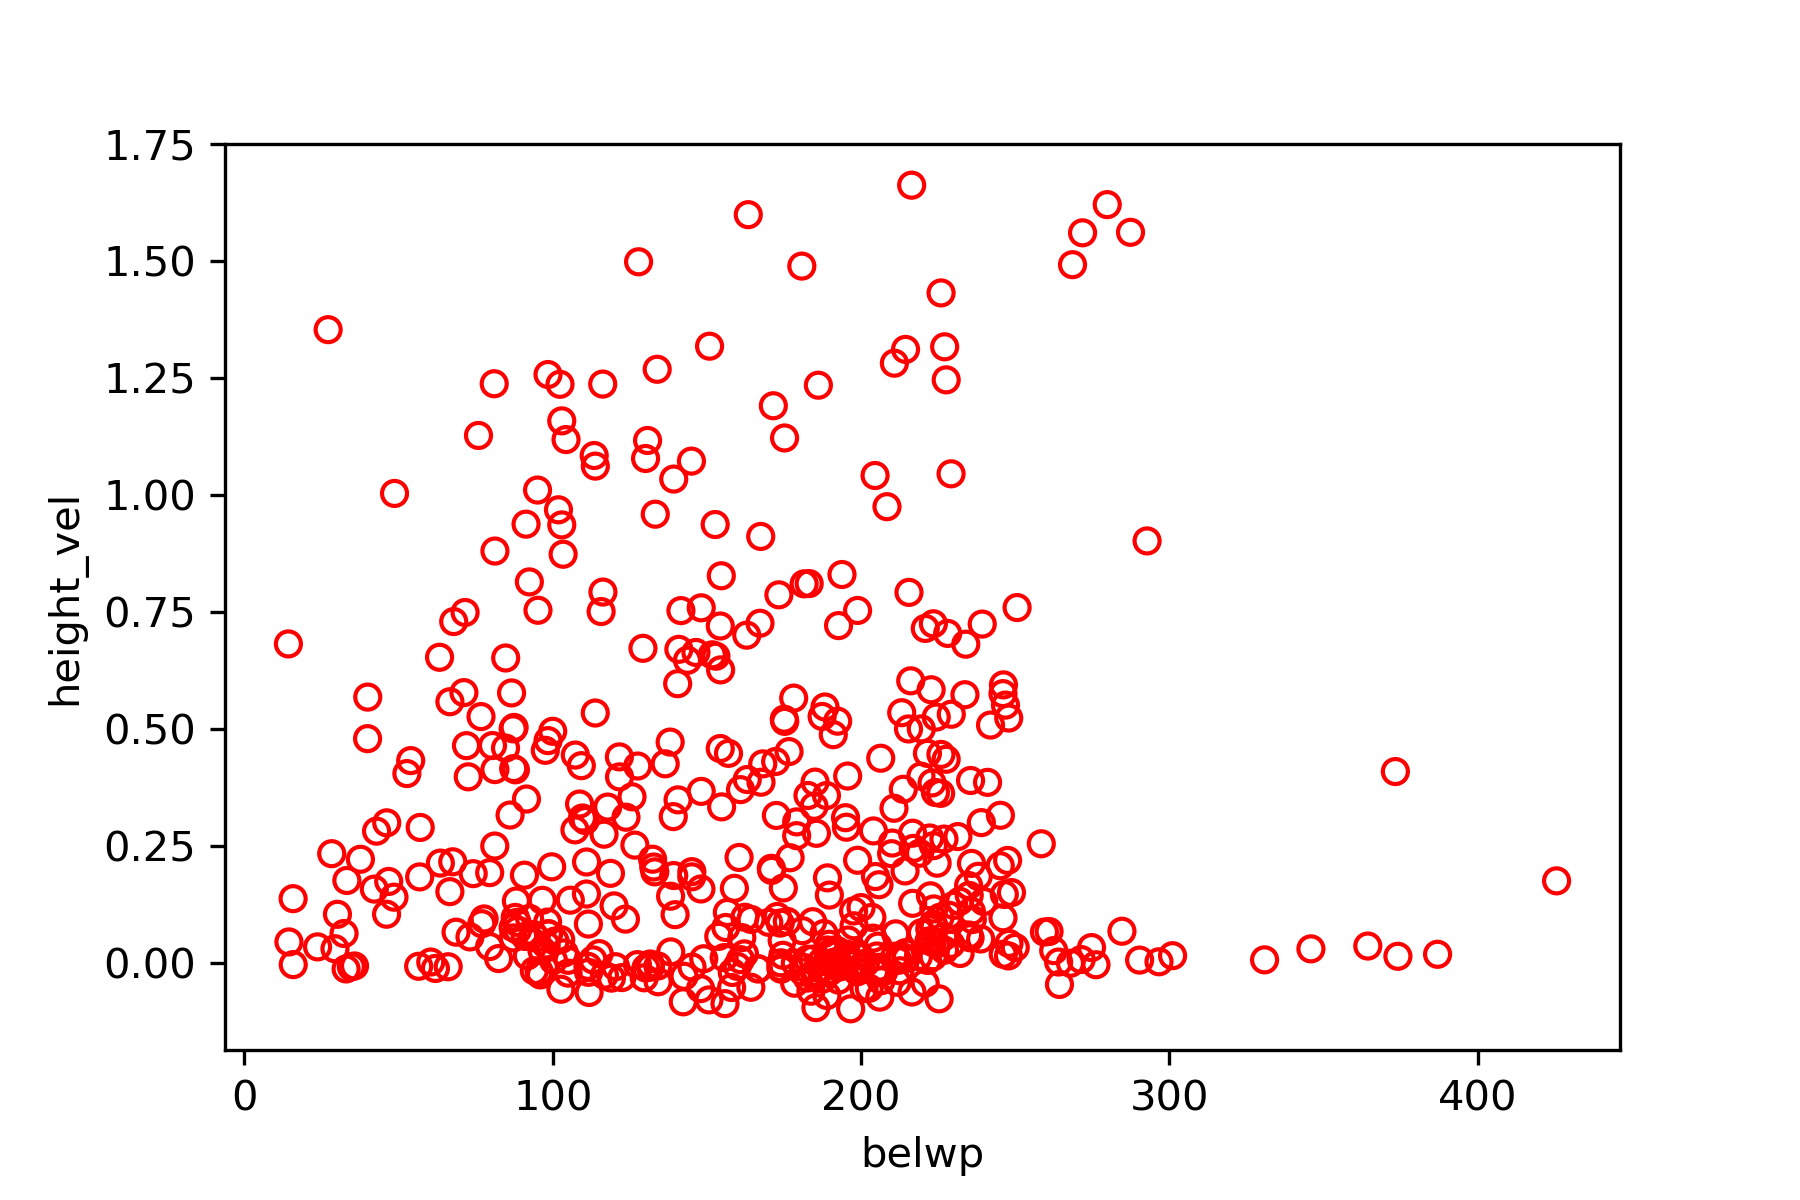
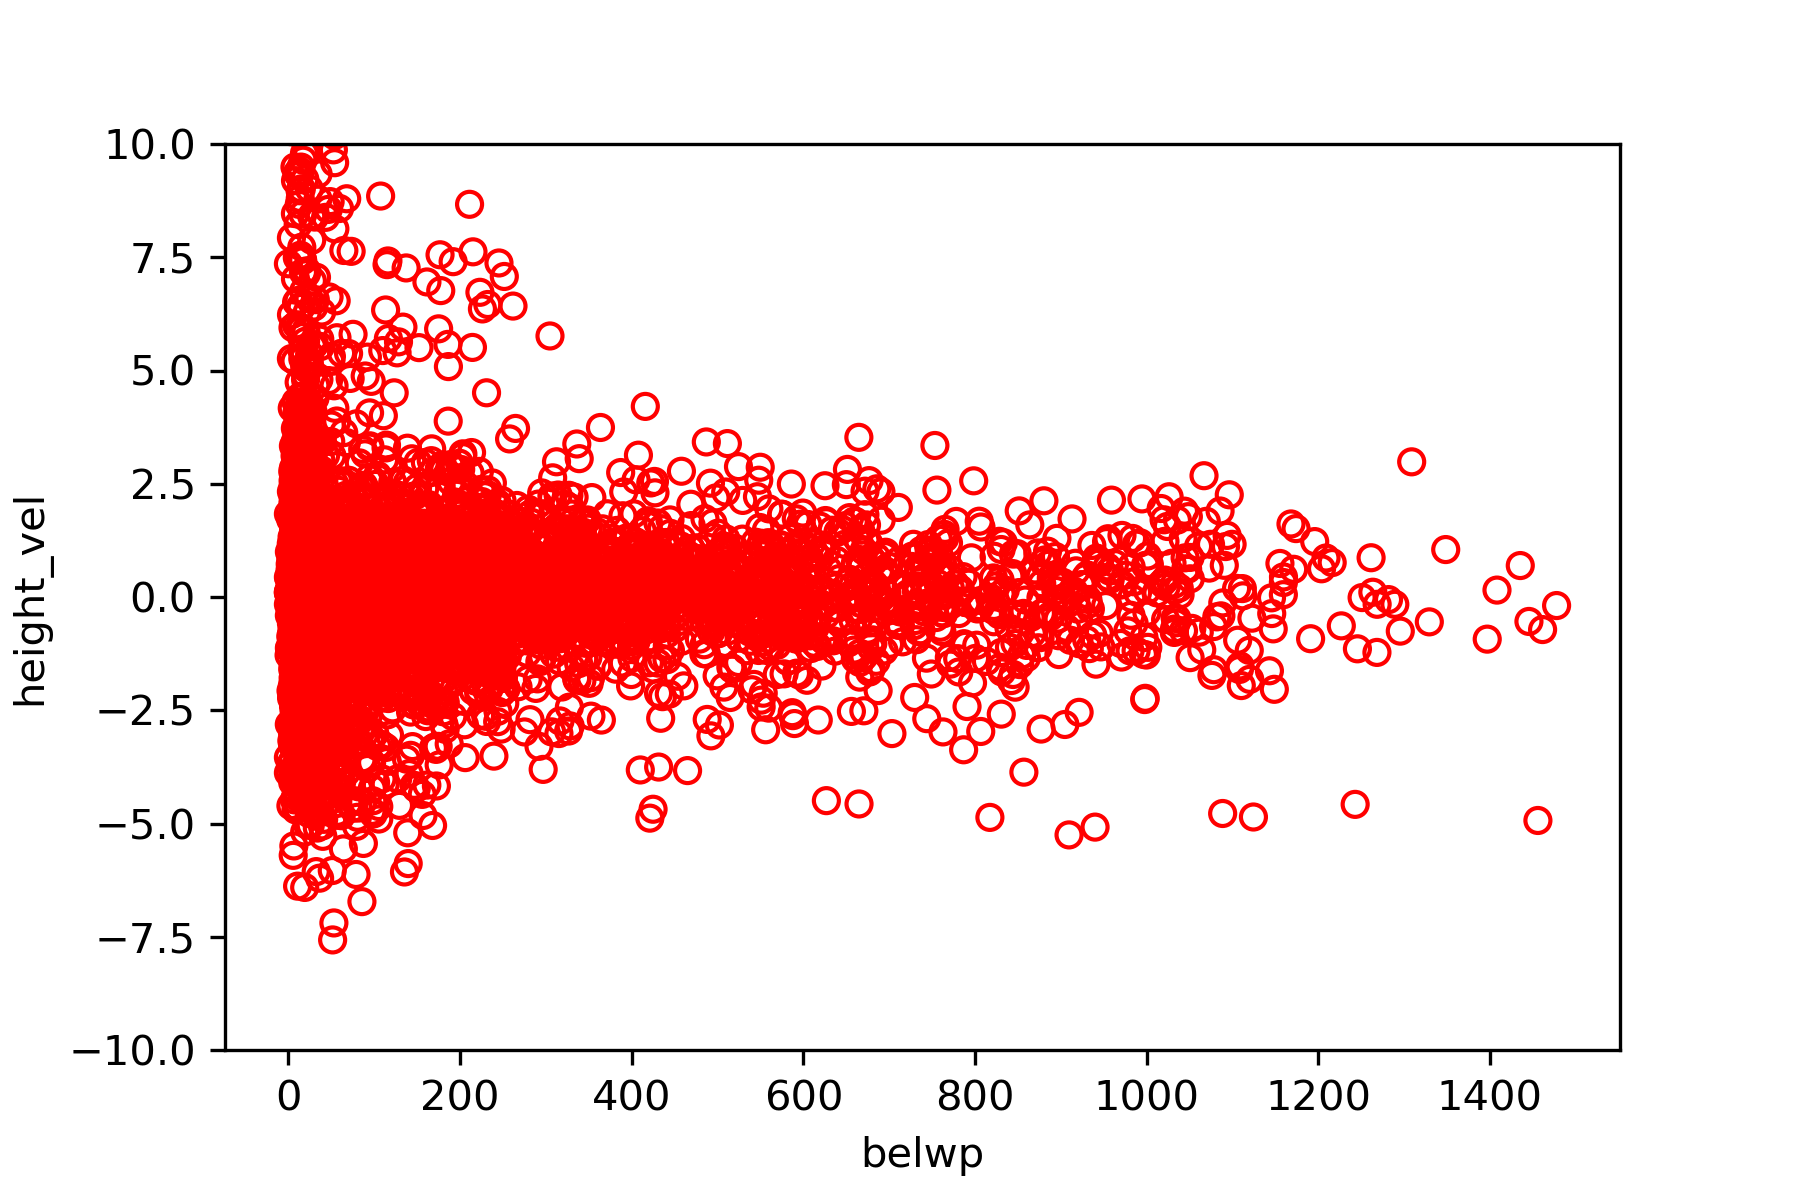
fixed it

diff --git a/src/calculators.py b/src/calculators.py
@@ -14,7 +14,7 @@ import cmocean
 from matplotlib.backends.backend_agg import FigureCanvasAgg as FigureCanvas
 import metpy.calc as mpcalc
 from metpy.units import units
-
+import main
 
 
 GRID=0.018
@@ -23,7 +23,7 @@ R = 6371000
 
 PLOT_PATH='../data/processed/plots/'
 NC_PATH='../data/processed/netcdf/'
-flow_var='cloud_top_height'
+flow_var=main.flow_var
 DATE_FORMAT="%m/%d/%Y, %H:%M:%S"
 
 def quiver_plotter(ds, title, date):
@@ -39,7 +39,7 @@ def quiver_plotter(ds, title, date):
     print('plotted quiver...')
 
 def quiver_hybrid(ds, values, vmin, vmax, date,ax, fig, cmap, scatterv):
-    #ds=ds.coarsen(lat=25, boundary='trim').mean().coarsen(lon=25, boundary='trim').mean()
+    ds=ds.coarsen(lat=25, boundary='trim').mean().coarsen(lon=25, boundary='trim').mean()
     ax, fig, im=implot(ds, values, vmin, vmax, date,ax, fig, cmap)
     #ds=ds.coarsen(lat=3, boundary='trim').mean().coarsen(lon=3, boundary='trim').mean()
     X,Y=np.meshgrid(ds['lon'].values,ds['lat'].values)
@@ -87,7 +87,15 @@ def warp_flow(img, flow):
     res = cv2.remap(img, flow, None, cv2.INTER_LINEAR)
     return res
 
-    
+def warp_flow0(img, flow):
+    h, w = flow.shape[:2]
+    flow = -flow
+    flow = flow.astype(np.float32)
+    R2 = np.dstack(np.meshgrid(np.arange(w), np.arange(h)))
+    pixel_map = R2 - 10*flow
+    pixel_map=pixel_map.astype(np.float32)
+    res = cv2.remap(img, pixel_map, None, cv2.INTER_LINEAR)
+    return res    
 
 def quick_plotter(ds_unit, date):
     date=date.strftime(DATE_FORMAT)
@@ -108,6 +116,24 @@ def quick_plotter(ds_unit, date):
 
 
 
+def map_plotter(ds, title, label, units_label=''):
+    values=np.squeeze(ds[label].values)
+    print('frame shape')
+    print(values.shape)
+    fig, ax = plt.subplots()
+    im = ax.imshow(values, cmap='viridis', extent=[ds['lon'].min(
+        ), ds['lon'].max(), ds['lat'].min(), ds['lat'].max()])
+    cbar = fig.colorbar(im, ax=ax, fraction=0.025, pad=0.04)
+    cbar.set_label(units_label)
+    plt.xlabel("lon")
+    plt.ylabel("lat")
+    plt.savefig('../data/processed/plots/'+title+'.png',
+                bbox_inches='tight', dpi=300)
+    plt.title(label)
+    plt.show()
+    plt.close()  
+
+
 def implot(ds, values, vmin, vmax, date,ax, fig, cmap):
     pmap = cmocean.cm.haline
     im = ax.imshow(values, cmap=cmap, origin='lower', vmin=vmin, vmax=vmax, 
@@ -116,17 +142,22 @@ def implot(ds, values, vmin, vmax, date,ax, fig, cmap):
     return ax, fig, im
 
 
-def calc(ds_unit, frame0):
+def calc(ds_unit, frame0, nframe0):
      frame=np.squeeze(ds_unit[flow_var].values)
      mask=np.isnan(frame)
      frame=np.nan_to_num(frame)
      nframe = cv2.normalize(src=frame, dst=None,
                             alpha=0, beta=255, norm_type=cv2.NORM_MINMAX, dtype=cv2.CV_8UC1)
+     #need to test this 
      optical_flow = cv2.optflow.createOptFlow_DeepFlow()
      flowd = optical_flow.calc(frame0, frame, None)
-     frame0d=warp_flow(frame0,flowd.copy())
+     
+     # ####
+     print('mean error:')
+     frame0d=warp_flow(frame0.copy(),flowd.copy())
      dz=frame-frame0d
      pz=frame-frame0
+     print(np.mean(abs(frame0-frame0d)))
      dz[mask]=np.nan
      pz[mask]=np.nan
      dzdt=1000/1800*dz
@@ -135,8 +166,16 @@ def calc(ds_unit, frame0):
      ds_unit['flow_x']=(('time','lat','lon'),np.expand_dims(flowd[:,:,0],axis=0))
      ds_unit['flow_y']=(('time','lat','lon'),np.expand_dims(flowd[:,:,1],axis=0))
      ds_unit=wind_calculator(ds_unit)
-     ds_unit['height_vel']=(('time','lat','lon'),np.expand_dims(dzdt,axis=0))
      ds_unit['height_tendency']=(('time','lat','lon'),np.expand_dims(pzpt,axis=0))
+     ds_unit['height_vel']=(('time','lat','lon'),np.expand_dims(dzdt,axis=0))
+     ds_unit['frame0']=(('time','lat','lon'),np.expand_dims(frame0,axis=0))
+     ds_unit['frame0d']=(('time','lat','lon'),np.expand_dims(frame0d,axis=0))
+     print('frame0')
+     map_plotter(ds_unit, 'frame0', 'frame0')
+     print('frame0d')
+     map_plotter(ds_unit, 'frame0d', 'frame0d')
+     map_plotter(ds_unit, flow_var, flow_var)
+
      frame0=frame
      nframe0=nframe
      
@@ -201,6 +240,7 @@ def scatter2d(ds, title, label, xedges, yedges):
     ax.scatter(X,Y, marker = 'o', facecolors='none', edgecolors='r')
     plt.xlabel(label[0])
     plt.ylabel(label[1])
+    plt.ylim(yedges)
     plt.savefig(title+'_scatter2d.png', dpi=300)
     
 def hist2d(ds, title, label, xedges, yedges):

diff --git a/src/main.py b/src/main.py
@@ -26,8 +26,6 @@ def preprocessing():
     files=natsorted(glob.glob('../data/interim/01_06/*'))
     print(len(files))
     ds_unit=xr.open_dataset(files[0]) 
-    #ds_unit=ds_unit.coarsen(lat=100, boundary='trim').mean().coarsen(lon=100, boundary='trim').mean()
-    ds_unit=ds_unit.rolling(lat=100, center=True).mean().rolling(lon=100, center=True).mean()
     frame0=np.squeeze(ds_unit[flow_var].values)
     frame0=np.nan_to_num(frame0)
     nframe0 = cv2.normalize(src=frame0, dst=None,
@@ -39,11 +37,9 @@ def preprocessing():
     ds_total = xr.Dataset()
     for file in files:
         ds_unit=xr.open_dataset(file)
-        ds_unit=ds_unit.rolling(lat=100, center=True).mean().rolling(lon=100, center=True).mean()
-        #ds_unit=ds_unit.coarsen(lat=100, boundary='trim').mean().coarsen(lon=100, boundary='trim').mean()
         date=ds_unit['time'].values
         print(date)
-        ds_unit, frame0=calc.calc(ds_unit,frame0)
+        ds_unit, frame0=calc.calc(ds_unit,frame0,nframe0)
         print(ds_unit)
       
         if not ds_total:
@@ -73,7 +69,7 @@ def post_plots(ds):
     plot_loop(ds, 'cloud_top_temperature', calc.scatter_hybrid, 230, 290,'viridis','height_vel')
     plot_loop(ds, 'cloud_top_height', calc.scatter_hybrid, 0, 5,'viridis','height_vel')
     plot_loop(ds, 'temperature_ir', calc.scatter_hybrid, 230, 290,'viridis','height_acceleration')
-    plot_loop(ds, 'temperature_ir', calc.scatter_hybrid, 230, 290,'viridis','vel_error')
+    #plot_loop(ds, 'temperature_ir', calc.scatter_hybrid, 230, 290,'viridis','vel_error')
 
     plot_loop(ds, 'temperature_ir', calc.scatter_hybrid, 230, 290,'viridis','height_tendency')
     temp_var='cloud_top_temperature'
@@ -90,15 +86,15 @@ def post_plots(ds):
     calc.hist2d(ds, PLOT_PATH+ 'acctemp', [temp_var,'height_acceleration'], [220,290], [-1e-4,1e-4])
 
     calc.scatter2d(ds, PLOT_PATH+ 'veltemp', [temp_var,'height_vel'], [200,240], [-1,1])
-    calc.scatter2d(ds, PLOT_PATH+ 'velheight', ['cloud_top_height','height_vel'], [200,240], [-1,1])
-    calc.scatter2d(ds,PLOT_PATH+  'tendtemp', [temp_var,'height_tendency'], [200,240], [-1,1])
+    calc.scatter2d(ds, PLOT_PATH+ 'velheight', ['cloud_top_height','height_vel'], [200,240], [-10,10])
+    calc.scatter2d(ds,PLOT_PATH+  'tendtemp', [temp_var,'height_tendency'], [200,240], [-10,10])
     calc.scatter2d(ds,PLOT_PATH+  'tendheight', ['cloud_top_height','height_tendency'], [200,240], [-1,1])
     calc.scatter2d(ds, PLOT_PATH+ 'acctemp', [temp_var,'height_acceleration'], [200,240], [-1e-4,1e-4])
     calc.scatter2d(ds, PLOT_PATH+ 'speedheight', ['cloud_top_height','speed'], [200,240], [-1e-4,1e-4])
     calc.scatter2d(ds, PLOT_PATH+ 'speedvel', ['speed','height_vel'], [200,240], [-1e-4,1e-4])
     calc.scatter2d(ds, PLOT_PATH+ 'speedtend', ['speed','height_tendency'], [200,240], [-1e-4,1e-4])
-    calc.scatter2d(ds, PLOT_PATH+ 'moistvel', ['belwp','height_vel'], [200,240], [-1e-4,1e-4])
-    calc.scatter2d(ds, PLOT_PATH+ 'moistheight', ['belwp','cloud_top_height'], [200,240], [-1e-4,1e-4])
+    calc.scatter2d(ds, PLOT_PATH+ 'moistvel', ['belwp','height_vel'], [200,240], [-10,10])
+    calc.scatter2d(ds, PLOT_PATH+ 'moistheight', ['belwp','cloud_top_height'], [200,240], [-10,10])
 
     
 def main():
@@ -119,8 +115,9 @@ def main():
     
     #plot_loop(ds, 'height_acceleration', calc.quiver_hybrid, -0.0001, 0.0001,'RdBu')
     #plot_loop(ds, 'height_acceleration_e', calc.quiver_hybrid, -0.0001, 0.0001,'RdBu')
-    #plot_loop(ds, 'height_vel', calc.quiver_hybrid, -1, 1,'RdBu')
-    #plot_loop(ds, 'height_tendency', calc.quiver_hybrid, -1,1,'RdBu')
+    plot_loop(ds, 'temperature_ir', calc.quiver_hybrid, 220, 290,'viridis','_an')
+    plot_loop(ds, 'height_vel', calc.quiver_hybrid, -1, 1,'RdBu','height_vel_an')
+    plot_loop(ds, 'height_tendency', calc.quiver_hybrid, -1,1,'RdBu', 'height_tendency_an')
     
 
 if __name__ == '__main__':
